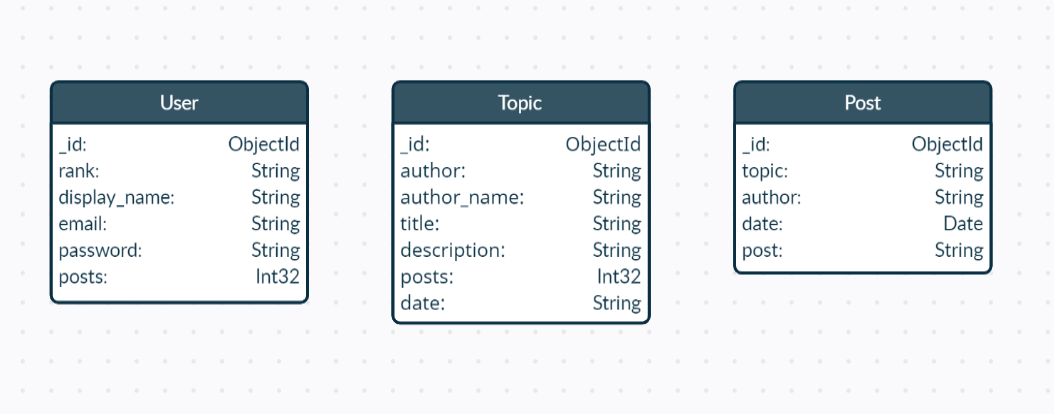
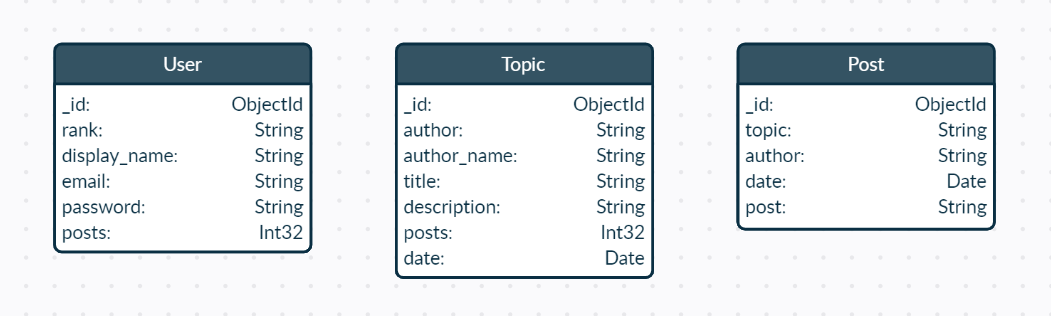
Removed jquery mobile CDN as taphold will be implemented in the future, updated general schema image for readme.

diff --git a/templates/base.html b/templates/base.html
@@ -102,7 +102,6 @@
     <script src="https://code.jquery.com/jquery-3.3.1.slim.min.js"
         integrity="sha384-q8i/X+965DzO0rT7abK41JStQIAqVgRVzpbzo5smXKp4YfRvH+8abtTE1Pi6jizo"
         crossorigin="anonymous"></script>
-    <script src="https://code.jquery.com/mobile/1.4.5/jquery.mobile-1.4.5.min.js"></script>
     <script src="https://cdnjs.cloudflare.com/ajax/libs/materialize/1.0.0/js/materialize.min.js"></script>
     <script src="{{ url_for('static', filename='js/common.js') }}"></script>
     {% block scripts %}

diff --git a/static/js/discussion.js b/static/js/discussion.js
@@ -2,16 +2,6 @@ $(document).ready(function(){
     $('.dropdown-trigger').dropdown();
 });
 
-// Adds taphold events to posts
-$(function(){
-  $( ".post" ).bind( "taphold", tapholdHandler);
- 
-  function tapholdHandler( event ){
-    $( ".post-options-button" ).click();
-  }
-});
-
-
 // Hides topic's area and shows edit form
 function showTopicEdit(){   
     $('#edit_topic_area').removeClass("hide");
